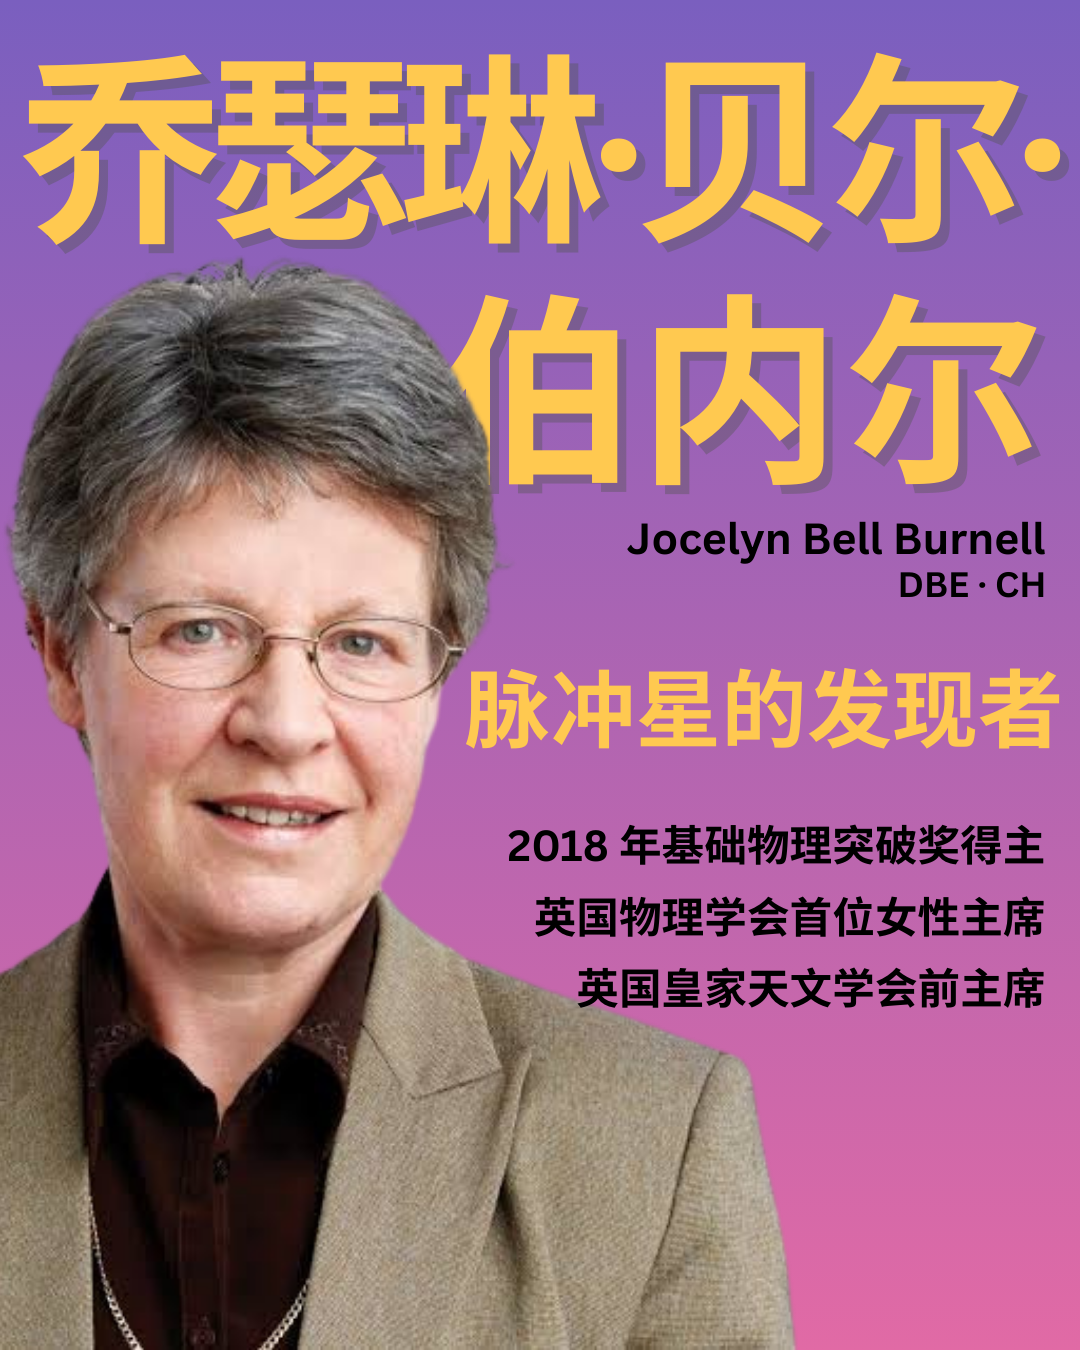
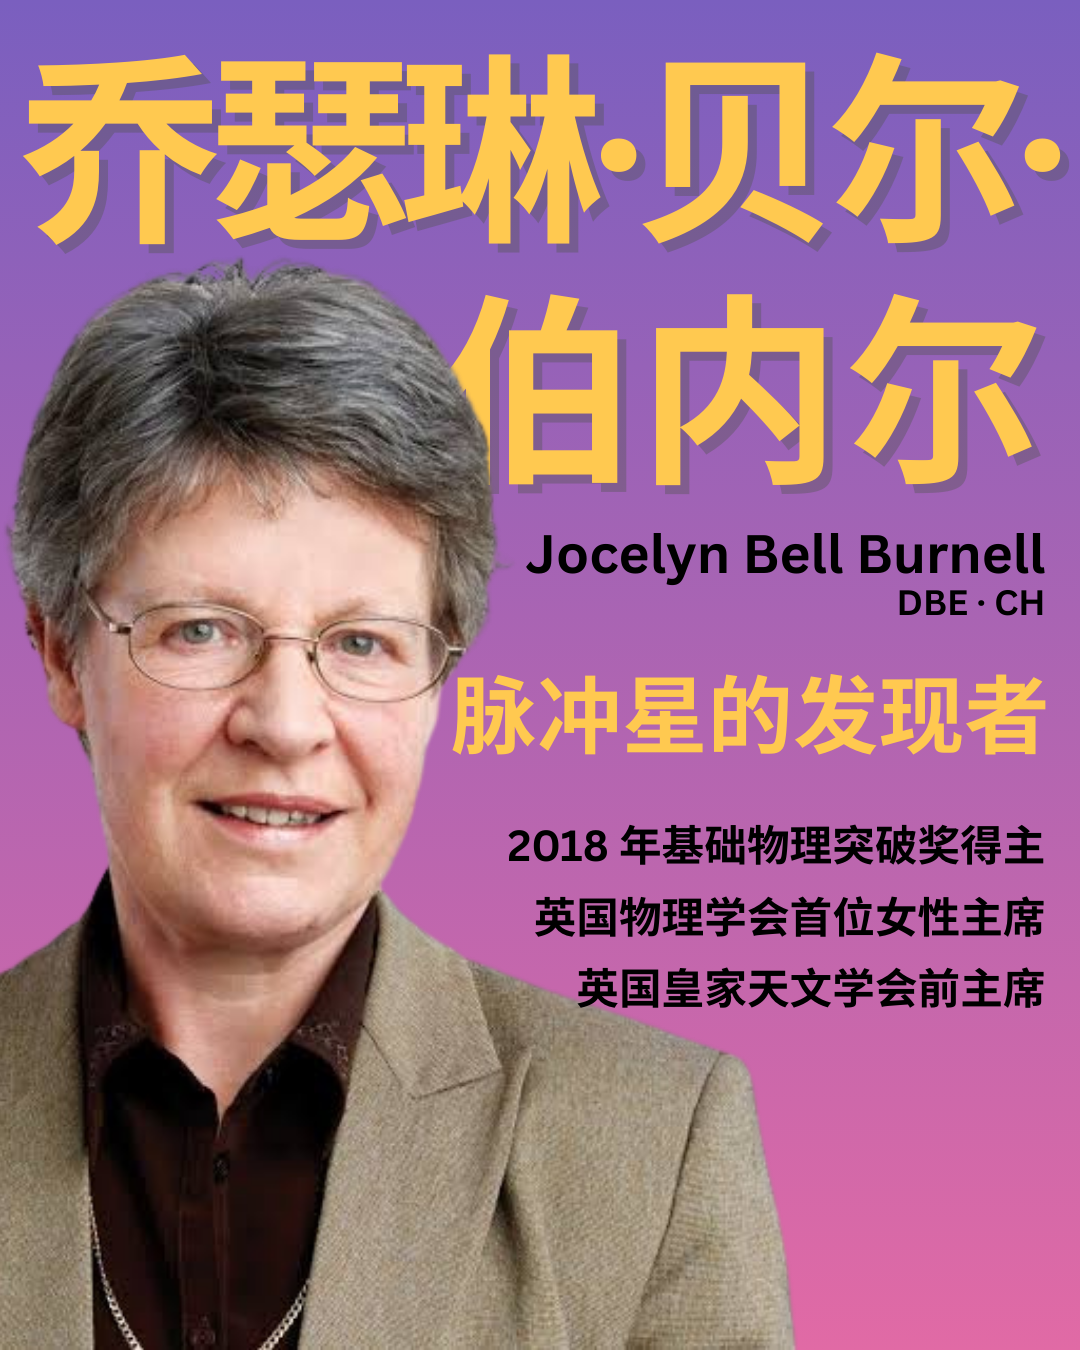
add Katherine Johnson; fix hobbies preview to 3 per row
Also commits previously unstaged changes: 3-column grid layout for the
hobbies preview, intro text moved below cards, zh/en language toggle.

Changed region(s): [[0.3972, 0.4978, 0.9778, 0.56], [0.4889, 0.3733, 0.9778, 0.4667]]

diff --git a/hobbies/index.html b/hobbies/index.html
@@ -31,7 +31,7 @@
 	<style>
 		.wip-preview {
 			display: grid;
-			grid-template-columns: 1fr 1fr 1fr 1fr 1fr;
+			grid-template-columns: 1fr 1fr 1fr;
 			gap: 10px;
 			margin-bottom: 15px;
 			border-radius: 8px;
@@ -97,6 +97,7 @@
 							<img src="../images/WomeninPhysics/Noether-1.png" alt="埃米·诺特 Emmy Noether">
 							<img src="../images/WomeninPhysics/Burnell-1.png" alt="乔瑟琳·贝尔·伯内尔 Jocelyn Bell Burnell">
 							<img src="../images/WomeninPhysics/Meitner-1.png" alt="莉泽·迈特纳 Lise Meitner">
+							<img src="../images/WomeninPhysics/Johnson-1.png" alt="凯瑟琳·约翰逊 Katherine Johnson">
 						</div>
 					</a>
 				</div>

diff --git a/hobbies/women-in-physics/index.html b/hobbies/women-in-physics/index.html
@@ -272,6 +272,12 @@
 						<div class="wip-card-hint"><i class="fa-solid fa-images"></i> 点击查看 / Click to read</div>
 					</div>
 
+					<!-- Katherine Johnson -->
+					<div class="wip-card" data-slides='["../../images/WomeninPhysics/Johnson-1.png","../../images/WomeninPhysics/Johnson-2.png","../../images/WomeninPhysics/Johnson-3.png"]'>
+						<img src="../../images/WomeninPhysics/Johnson-1.png" alt="凯瑟琳·约翰逊 Katherine Johnson">
+						<div class="wip-card-hint"><i class="fa-solid fa-images"></i> 点击查看 / Click to read</div>
+					</div>
+
 				</div>
 
 				<div class="wip-intro">
